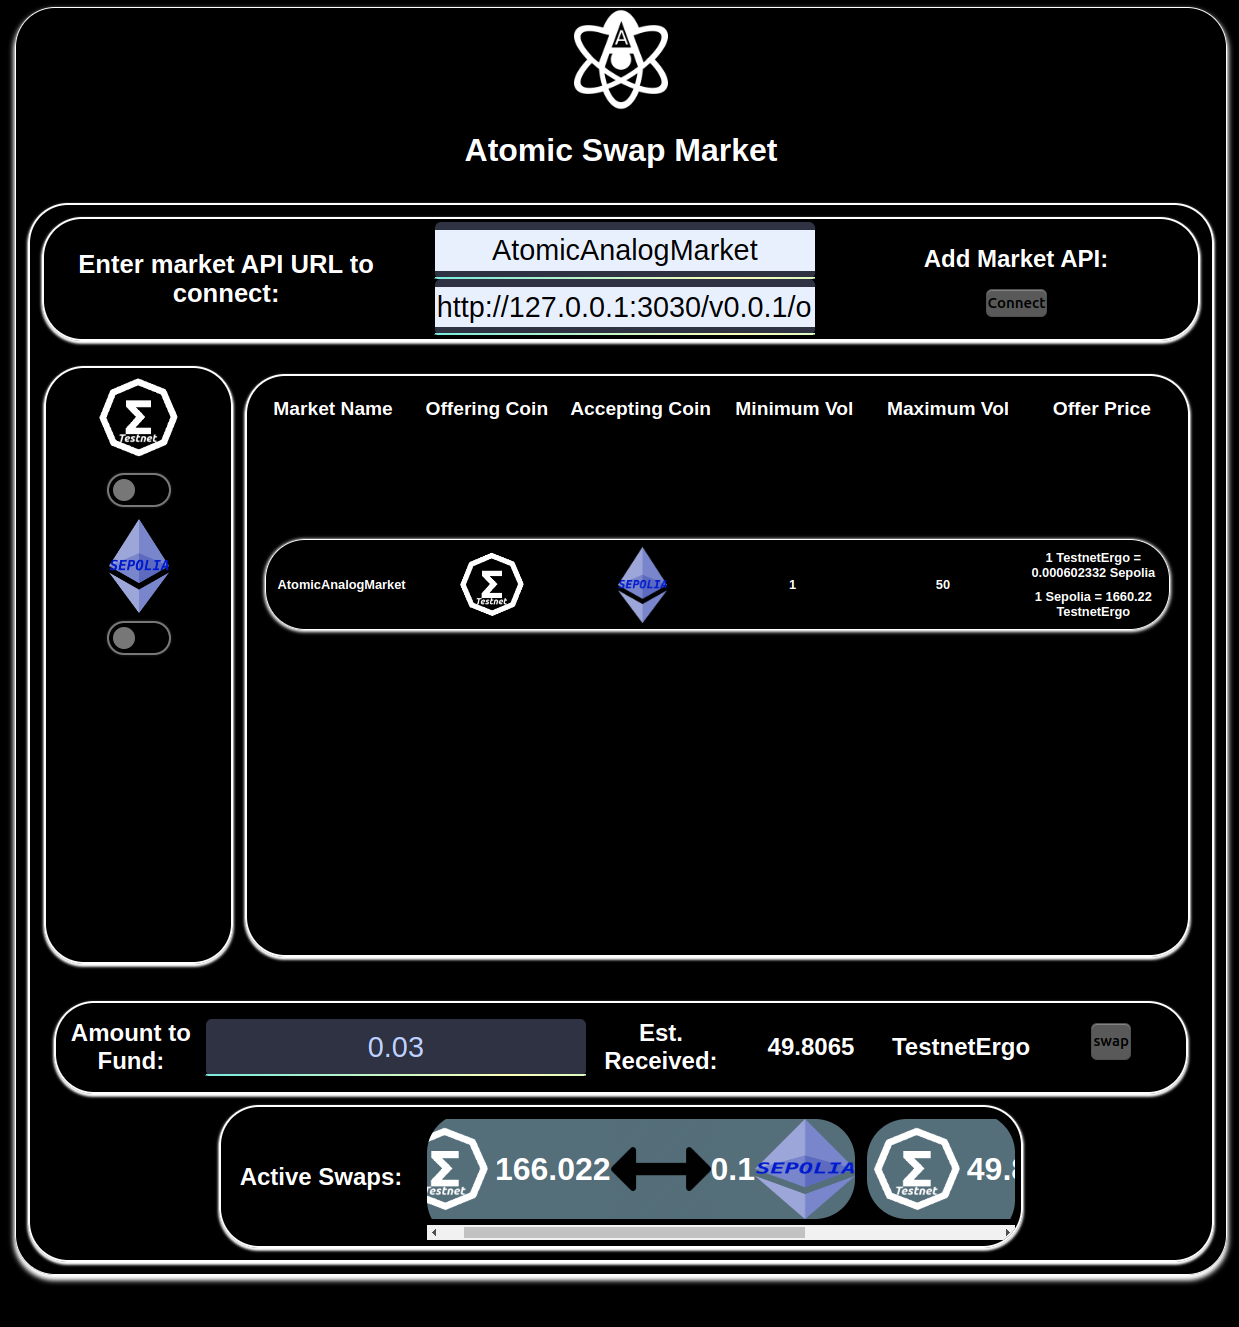
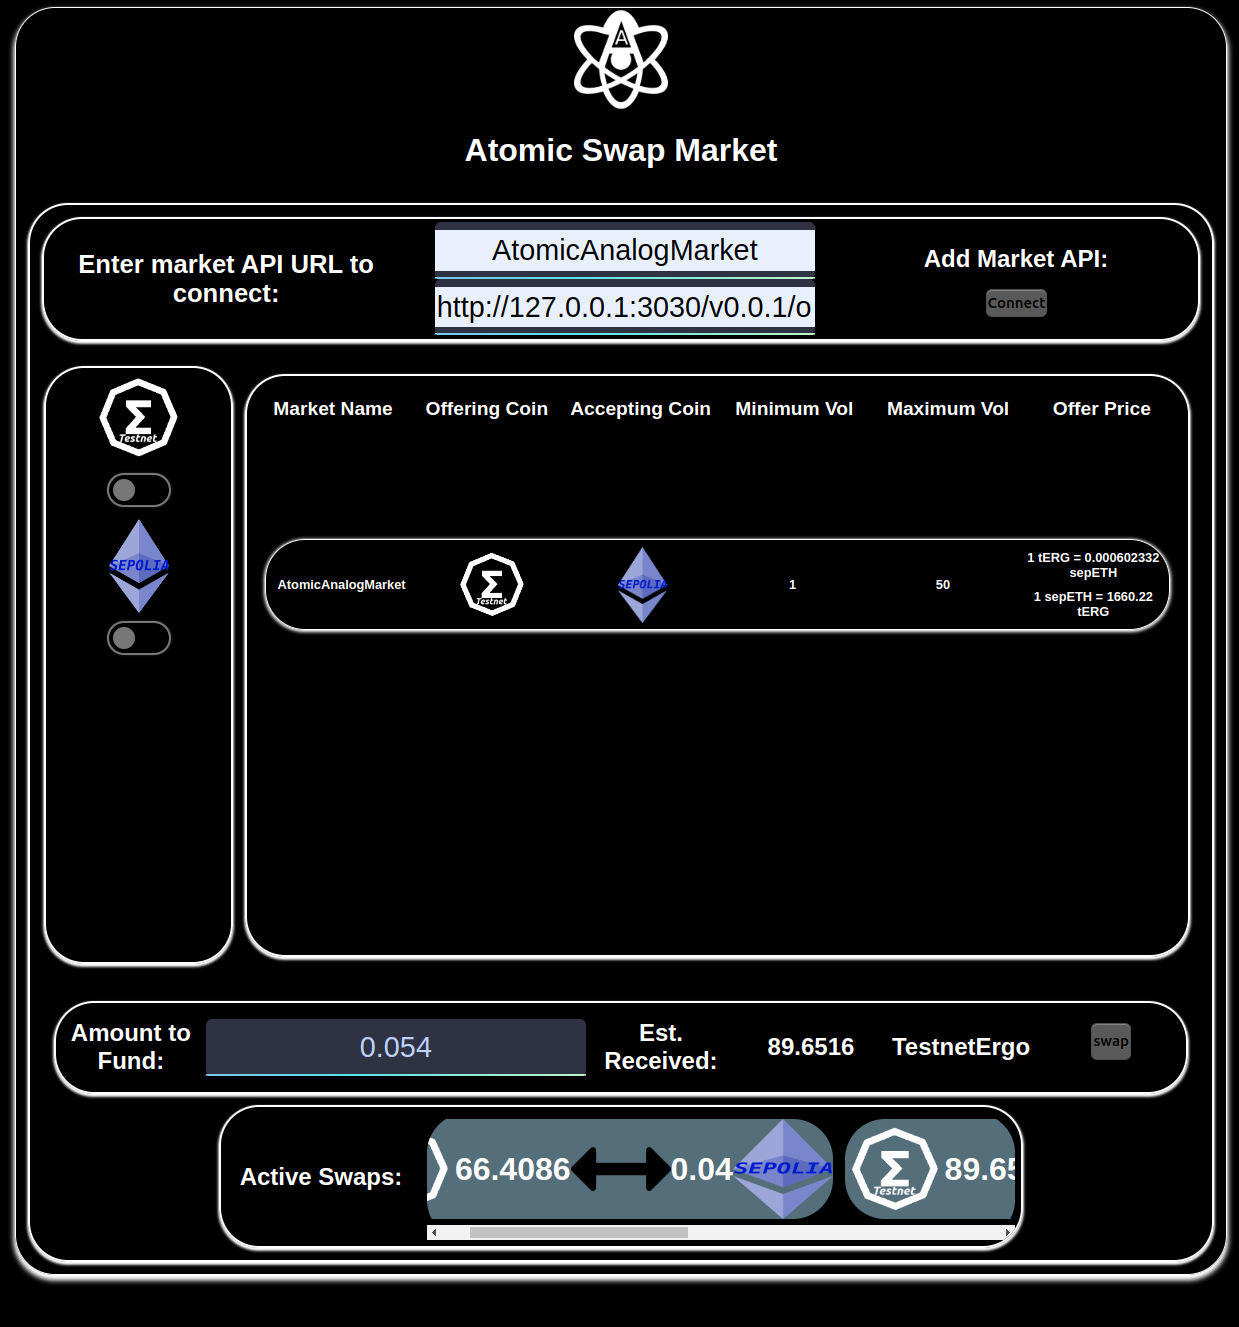
use ticker symbol instead of full names of the chain when representing a type of swap offer

diff --git a/assets/js/market.js b/assets/js/market.js
@@ -146,13 +146,16 @@ function representOrderType(marketName, CoinA, CoinB, MinVol, MaxVol, CoinA_Pric
         const newOrderTypeCoin2IMG = document.createElement("img");
 	const SepoliaIMG_path = "../images/Sepolia-Ethereum-Logo-PNG-tranparentBG.png";
 	const SepoliaIMG_className = "sepoliaCheckboxImage";
+	coinA_ticker = "";
 	if (CoinA == "TestnetErgo")
 	{
+		coinA_ticker = "tERG";
 		newOrderTypeCoin1IMG.src = testnetErgoIMG_path;
 		newOrderTypeCoin1IMG.className = testnetErgoIMG_className;
 	}
 	else if (CoinA == "Sepolia")
 	{
+		coinA_ticker = "sepETH";
 		newOrderTypeCoin1IMG.src = SepoliaIMG_path;
                 newOrderTypeCoin1IMG.className = SepoliaIMG_className;
 	}
@@ -161,13 +164,16 @@ function representOrderType(marketName, CoinA, CoinB, MinVol, MaxVol, CoinA_Pric
 		console.log("unhandled coin: ", CoinA);
 	}
 	newOrderTypeCoin1.appendChild(newOrderTypeCoin1IMG);
+	coinB_ticker = "";
 	if (CoinB == "TestnetErgo")
         {
+		coinB_ticker = "tERG";
                 newOrderTypeCoin2IMG.src = testnetErgoIMG_path;
                 newOrderTypeCoin2IMG.className = testnetErgoIMG_className;
         }
 	else if (CoinB == "Sepolia")
         {
+		coinB_ticker = "sepETH";
                 newOrderTypeCoin2IMG.src = SepoliaIMG_path;
                 newOrderTypeCoin2IMG.className = SepoliaIMG_className;
         }
@@ -187,8 +193,8 @@ function representOrderType(marketName, CoinA, CoinB, MinVol, MaxVol, CoinA_Pric
 	//currently using 1 instead of real amount works, needs test to verify
 	const newOrderTypePrice = document.createElement("div");
 	newOrderTypePrice.innerHTML +=
-		"<h1>1 " + CoinA + " = " + ConversionArray[0]  + " " + CoinB + "</h1> " + 
-		"<h1>1 " + CoinB + " = " + ConversionArray[1]  + " " + CoinA + "</h1>"
+		"<h1>1 " + coinA_ticker + " = " + ConversionArray[0]  + " " + coinB_ticker + "</h1> " + 
+		"<h1>1 " + coinB_ticker + " = " + ConversionArray[1]  + " " + coinA_ticker + "</h1>"
 
 	//append in order: Market Name Offering Coin Accepting Coin Minimum Vol Maximum Vol Offer Price
 	individualMarketOrderContainer.appendChild(newOrderTypeSwapName);
